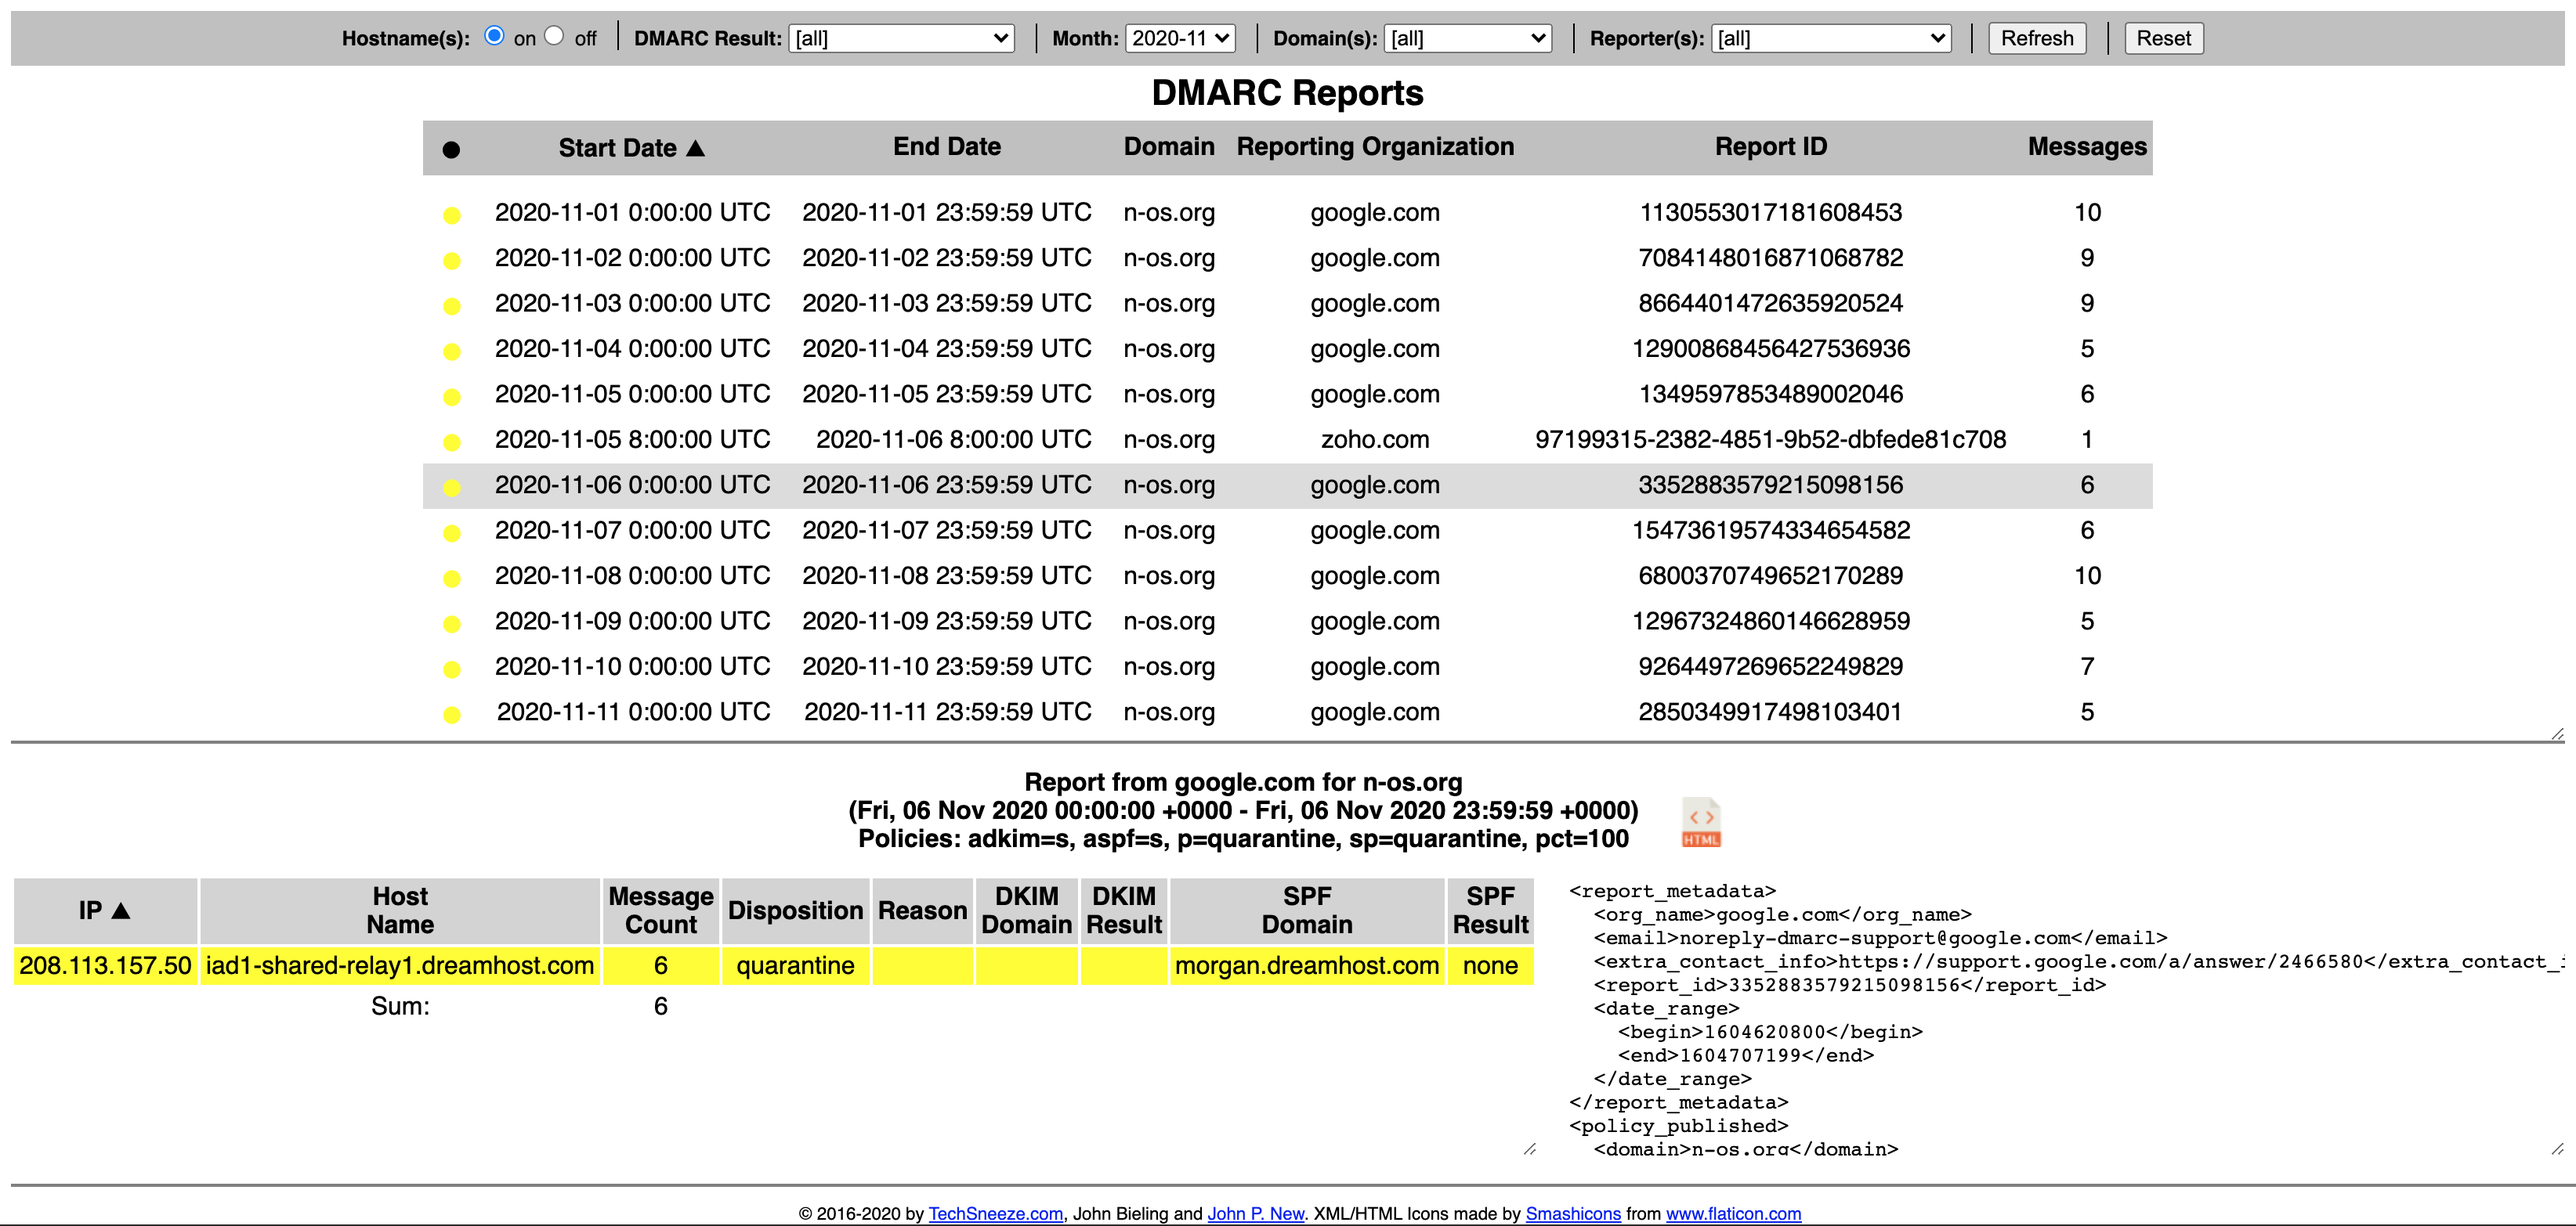
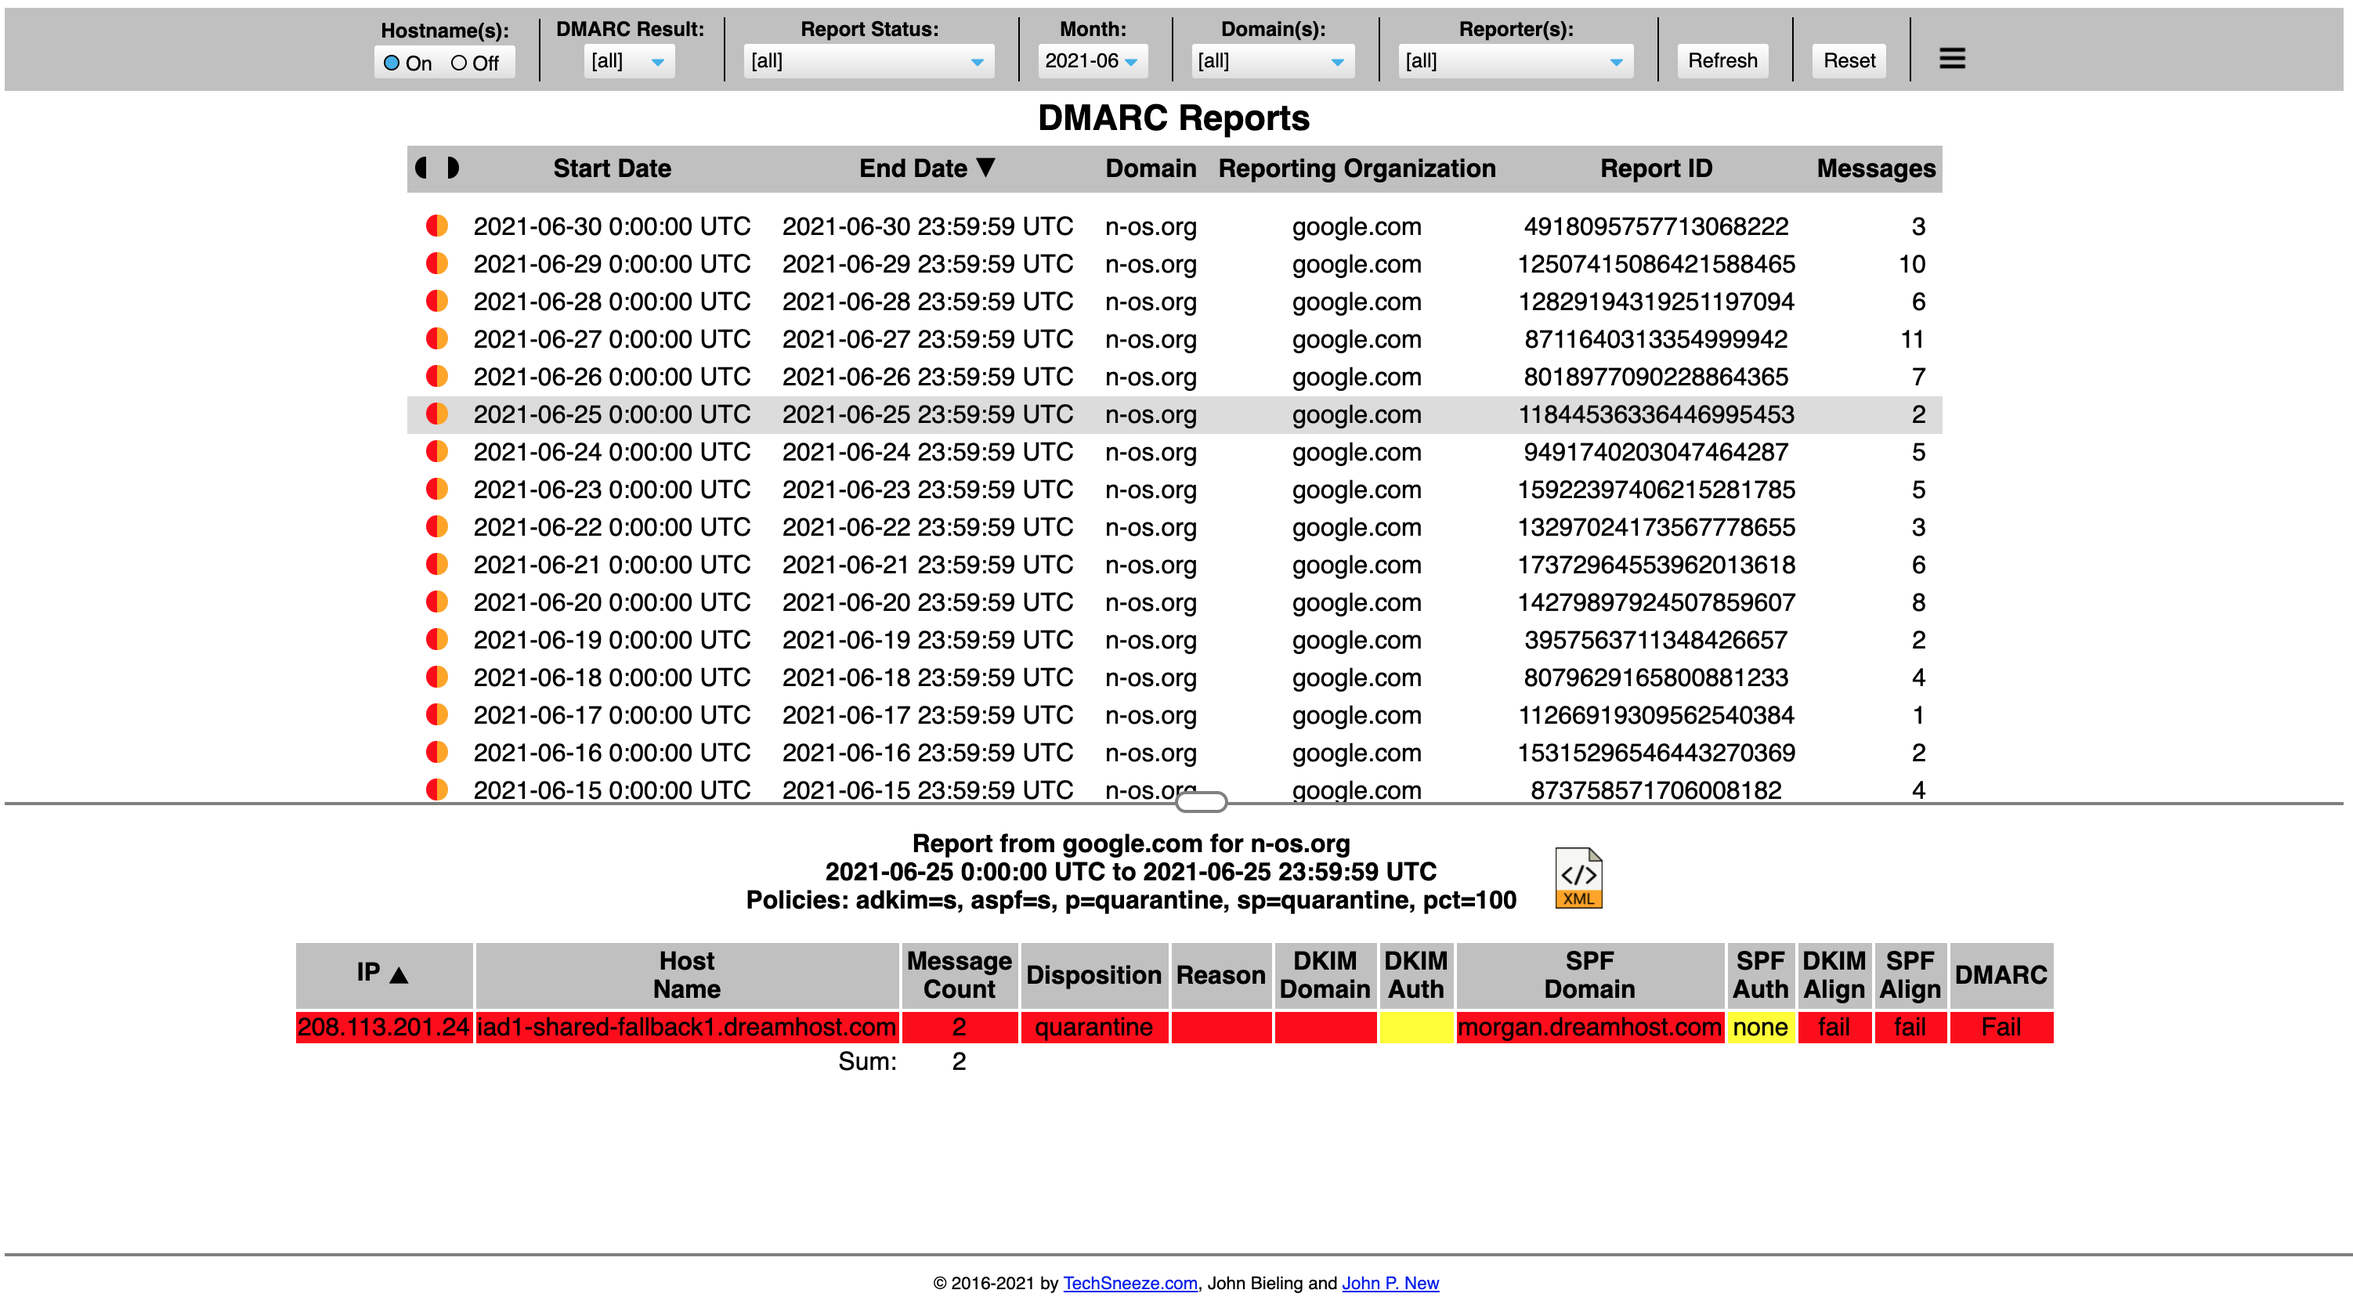
Bump version and image, fixes #10
* alpine 3.5 to 3.13

	* openssl upgrade, remove MimeInfo and SSL perl pkg hacks

	* mysql client library upgrades (compatibility with 8)

	* image size reduction 703 to 322 MB

	* bump upstream sources for viewer and parser

	* introduce tags (current and latest docker image 1.0, old image
          still available as 0.5)

Changed region(s): [[0.0, 0.0, 1.0, 1.0], [0.8049, 0.5824, 0.8359, 0.613]]

diff --git a/manifest/var/www/viewer/dmarcts-report-viewer-config.php b/manifest/var/www/viewer/dmarcts-report-viewer-config.php
@@ -5,10 +5,10 @@
 // ####################################################################
 
 $dbhost=getenv('REPORT_DB_HOST');
+$dbport=getenv('REPORT_DB_PORT');
 $dbname=getenv('REPORT_DB_NAME');
 $dbuser=getenv('REPORT_DB_USER');
 $dbpass=getenv('REPORT_DB_PASS');
-$dbport='3306';
 
 $cssfile="default.css";
 

diff --git a/README.md b/README.md
@@ -20,10 +20,12 @@ docker run -e ... -ti gutmensch/dmarc-report
 
 New dmarc reports will be fetched every 15 minutes past the hour, every hour. Therefore it can take up to one hour for the first report to be fetched.
 
-## Versions for last build latest
-dmarcts report viewer: 2020-09-06
+## Versions for last build latest and version 1.0
+dmarcts report viewer: 2021-07-04
 
-dmarcts report parser: 2020-09-06
+dmarcts report parser: 2021-07-04
+
+CAUTION: The old gutmensch/dmarc-report:latest image (older alpine, php5, etc.) is available still as gutmensch/dmarc-report:0.5. The current latest (and 1.0) uses the latest alpine version, newer MySQL client libraries, newer OpenSSL, etc. and improves compatibilitiy with MySQL 8+. For full compatibility the upstream parser should merge https://github.com/techsneeze/dmarcts-report-parser/pull/103/files too.
 
 ## Frontend Screenshot
 ![DMARC Report Viewer](https://github.com/gutmensch/docker-dmarc-report/blob/master/screenshot.png?raw=true)
@@ -46,6 +48,7 @@ services:
       - "80:80"
     environment:
       - "REPORT_DB_HOST=db"
+      - "REPORT_DB_PORT=3306"
       - "REPORT_DB_NAME=dmarc_report"
       - "REPORT_DB_USER=dmarc_report"
       - "REPORT_DB_PASS=dbpassword"
